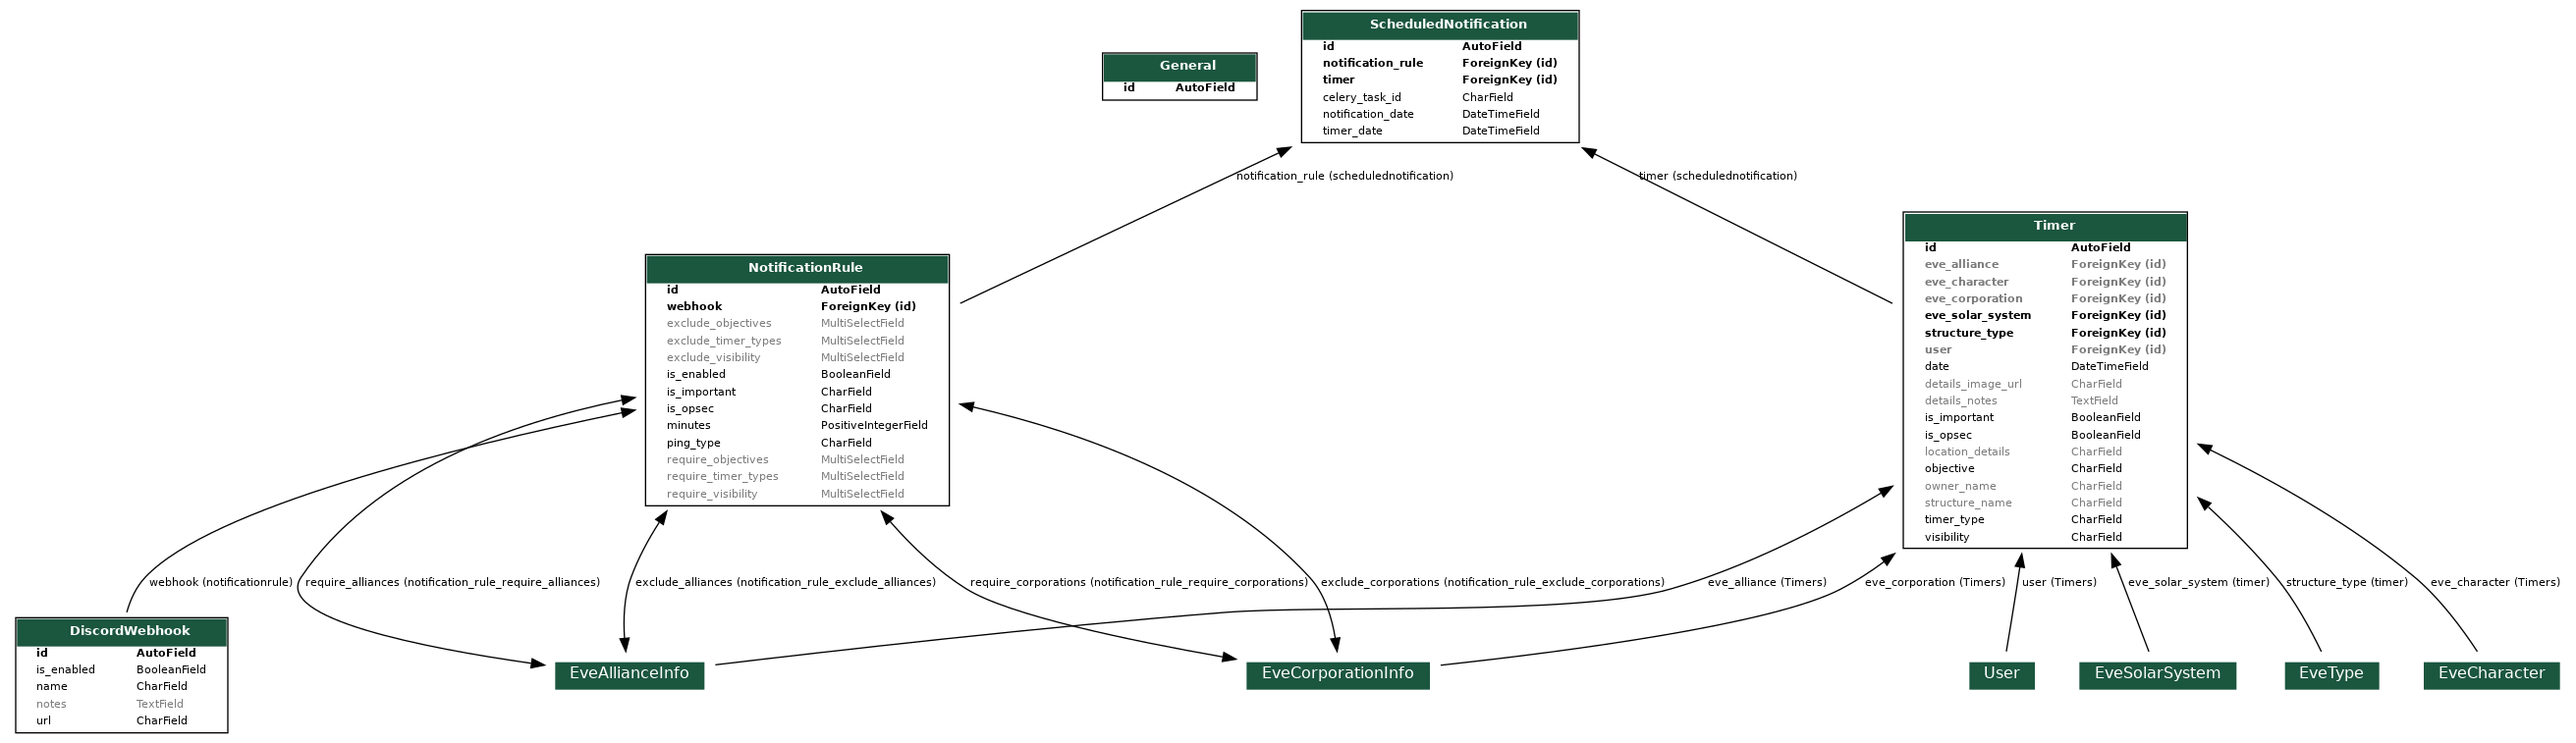
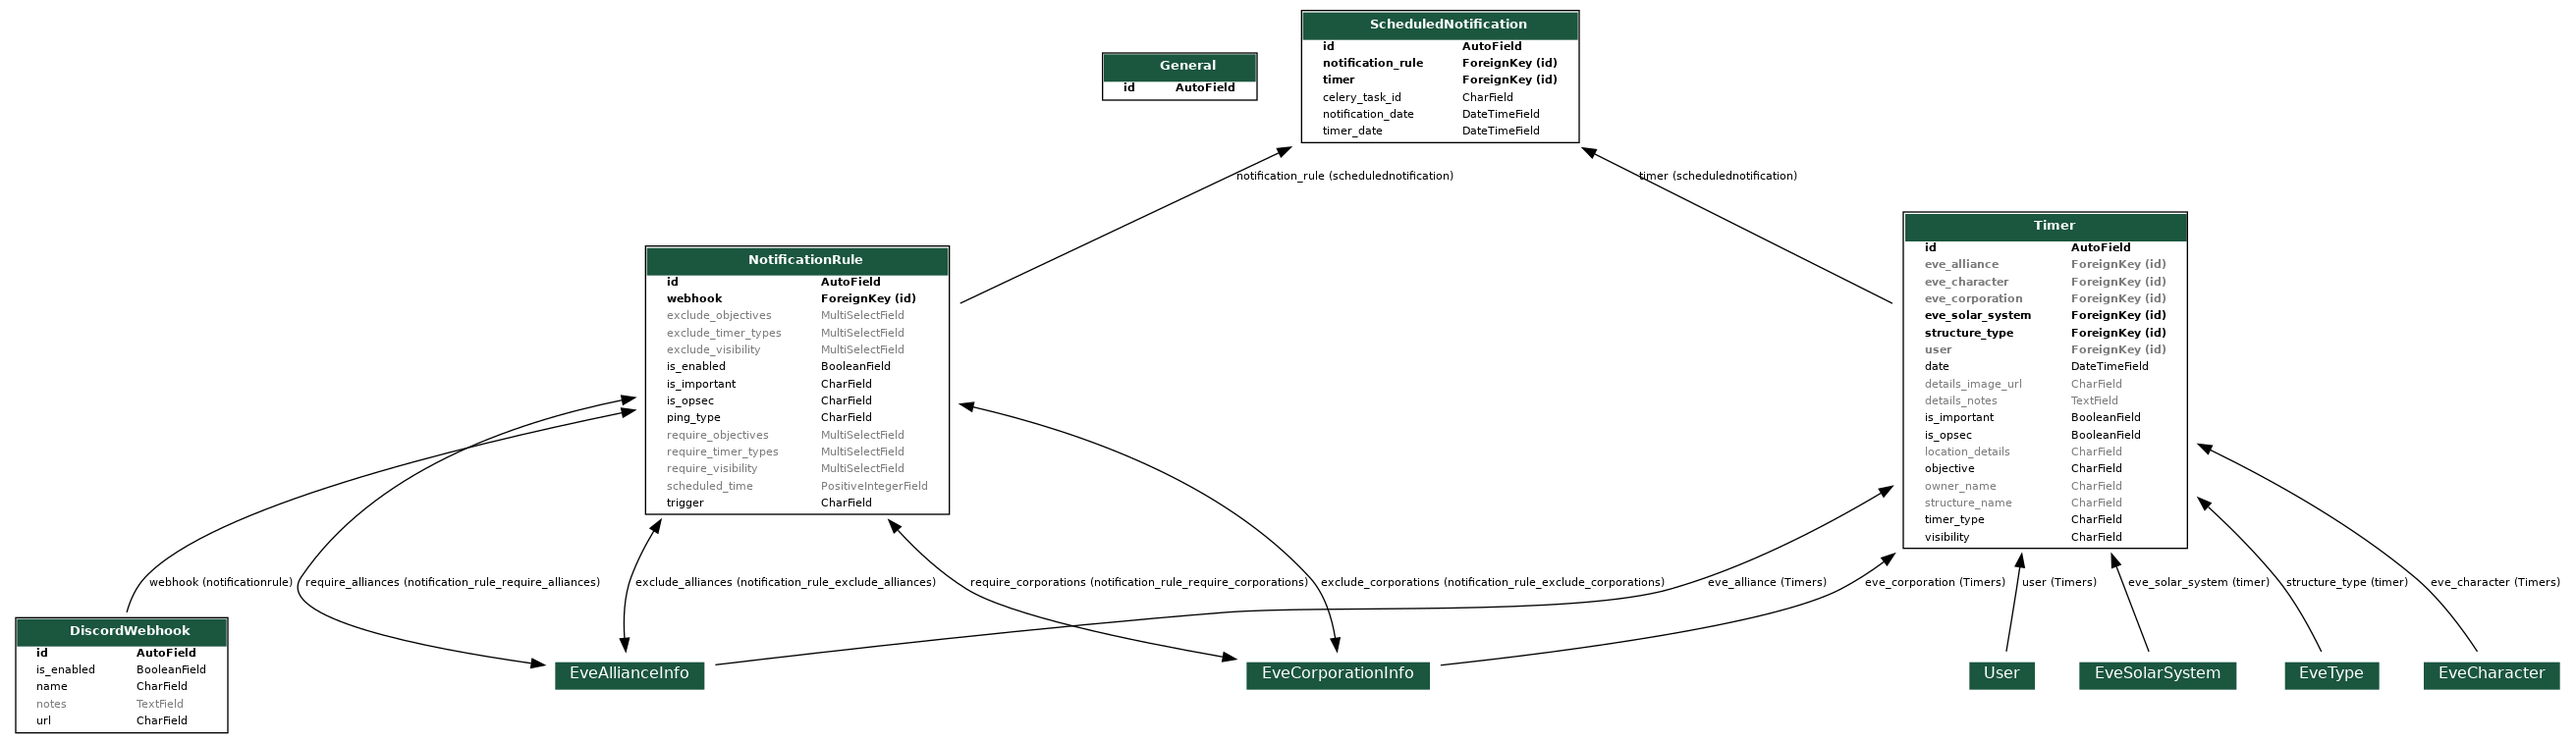
Improve UI for notificaton rules

Changed region(s): [[0.247, 0.3038, 0.3706, 0.6988]]

diff --git a/structuretimers/tests/test_tasks.py b/structuretimers/tests/test_tasks.py
@@ -40,8 +40,8 @@ class TestCaseBase(LoadTestDataMixin, TestCase):
         )
 
 
-@patch(MODULE_PATH + ".DiscordWebhook.send_queued_messages")
-@patch(MODULE_PATH + ".logger")
+@patch(MODULE_PATH + ".DiscordWebhook.send_queued_messages", spec=True)
+@patch(MODULE_PATH + ".logger", spec=True)
 class TestSendMessagesForWebhook(TestCaseBase):
     def test_normal(self, mock_logger, mock_send_queued_messages):
         send_messages_for_webhook(self.webhook.pk)
@@ -65,8 +65,8 @@ class TestSendMessagesForWebhook(TestCaseBase):
         self.assertEqual(mock_logger.error.call_count, 0)
 
 
-@patch(MODULE_PATH + ".notify_about_new_timer")
-@patch(MODULE_PATH + ".send_scheduled_notification")
+@patch(MODULE_PATH + ".notify_about_new_timer", spec=True)
+@patch(MODULE_PATH + ".send_scheduled_notification", spec=True)
 class TestScheduleNotificationForTimer(TestCaseBase):
     def test_normal(self, mock_send_notification, mock_send_notification_for_timer):
         """
@@ -149,7 +149,7 @@ class TestScheduleNotificationForTimer(TestCaseBase):
         self.assertFalse(mock_send_notification_for_timer.apply_async.called)
 
 
-@patch(MODULE_PATH + ".send_scheduled_notification")
+@patch(MODULE_PATH + ".send_scheduled_notification", spec=True)
 class TestScheduleNotificationForRule(TestCaseBase):
     def test_normal(self, mock_send_notification):
         """
@@ -197,7 +197,7 @@ class TestScheduleNotificationForRule(TestCaseBase):
 
 
 @patch("structuretimers.models.STRUCTURETIMERS_NOTIFICATIONS_ENABLED", False)
-@patch(MODULE_PATH + ".send_messages_for_webhook")
+@patch(MODULE_PATH + ".send_messages_for_webhook", spec=True)
 class TestSendScheduledNotification(TestCaseBase):
     def test_normal(self, mock_send_messages_for_webhook):
         """
@@ -267,7 +267,7 @@ class TestSendScheduledNotification(TestCaseBase):
         self.assertFalse(mock_send_messages_for_webhook.apply_async.called)
 
 
-@patch(MODULE_PATH + ".send_messages_for_webhook")
+@patch(MODULE_PATH + ".send_messages_for_webhook", spec=True)
 class TestSendNotificationForTimer(TestCaseBase):
     def setUp(self) -> None:
         super().setUp()

diff --git a/structuretimers/tasks.py b/structuretimers/tasks.py
@@ -21,6 +21,7 @@ from .utils import LoggerAddTag
 
 
 logger = LoggerAddTag(get_extension_logger(__name__), __title__)
+TASK_PRIO_HIGH = 4
 
 
 @shared_task(base=QueueOnce, acks_late=True)
@@ -92,7 +93,9 @@ def send_scheduled_notification(self, scheduled_notification_pk: int) -> None:
                     webhook=webhook,
                     content=notification_rule.prepend_ping_text(content),
                 )
-                send_messages_for_webhook.apply_async(args=[webhook.pk], priority=3)
+                send_messages_for_webhook.apply_async(
+                    args=[webhook.pk], priority=TASK_PRIO_HIGH
+                )
 
 
 @shared_task
@@ -117,7 +120,7 @@ def notify_about_new_timer(timer_pk: int, notification_rule_pk: int) -> None:
                 content=notification_rule.prepend_ping_text(content),
             )
             send_messages_for_webhook.apply_async(
-                args=[notification_rule.webhook.pk], priority=3
+                args=[notification_rule.webhook.pk], priority=TASK_PRIO_HIGH
             )
 
 
@@ -138,7 +141,7 @@ def _schedule_notification_for_timer(
     result = send_scheduled_notification.apply_async(
         kwargs={"scheduled_notification_pk": scheduled_notification.pk},
         eta=timer.date - timedelta(minutes=notification_rule.scheduled_time),
-        priority=3,
+        priority=TASK_PRIO_HIGH,
     )
     scheduled_notification.celery_task_id = result.task_id
     scheduled_notification.save()
@@ -184,7 +187,7 @@ def schedule_notifications_for_timer(timer_pk: int, is_new: bool = False) -> Non
                                 "timer_pk": timer.pk,
                                 "notification_rule_pk": rule.pk,
                             },
-                            priority=3,
+                            priority=TASK_PRIO_HIGH,
                         )
 
             # trigger: timer elapses soon

diff --git a/structuretimers/admin.py b/structuretimers/admin.py
@@ -134,7 +134,7 @@ class NotificationRuleAdmin(admin.ModelAdmin):
         "_time",
         "webhook",
         "ping_type",
-        "_clauses",
+        "_timer_clauses",
     )
     list_filter = ("is_enabled", "trigger")
     ordering = ("id",)
@@ -147,7 +147,7 @@ class NotificationRuleAdmin(admin.ModelAdmin):
 
     _time.admin_order_field = "scheduled time"
 
-    def _clauses(self, obj) -> list:
+    def _timer_clauses(self, obj) -> list:
         clauses = list()
         for field, func, choices in [
             ("require_timer_types", self._add_to_clauses_1, Timer.TYPE_CHOICES),
@@ -212,6 +212,41 @@ class NotificationRuleAdmin(admin.ModelAdmin):
         "exclude_alliances",
         "require_corporations",
         "exclude_corporations",
+    )
+
+    fieldsets = (
+        (
+            None,
+            {
+                "fields": (
+                    "trigger",
+                    "scheduled_time",
+                    "webhook",
+                    "ping_type",
+                    "is_enabled",
+                )
+            },
+        ),
+        (
+            "Timer clauses",
+            {
+                "classes": ("collapse",),
+                "fields": (
+                    "require_timer_types",
+                    "exclude_timer_types",
+                    "require_objectives",
+                    "exclude_objectives",
+                    "require_corporations",
+                    "exclude_corporations",
+                    "require_alliances",
+                    "exclude_alliances",
+                    "require_visibility",
+                    "exclude_visibility",
+                    "is_important",
+                    "is_opsec",
+                ),
+            },
+        ),
     )
 
     def formfield_for_manytomany(self, db_field, request, **kwargs):

diff --git a/structuretimers/tests/test_utils.py b/structuretimers/tests/test_utils.py
@@ -5,6 +5,7 @@ from unittest.mock import Mock, patch
 import requests
 
 from django.contrib.auth.models import User
+from django.http import HttpRequest
 from django.test import TestCase
 from django.utils import translation
 from django.utils.html import mark_safe
@@ -37,9 +38,9 @@ logger = set_test_logger(MODULE_PATH, __file__)
 
 
 class TestMessagePlus(TestCase):
-    @patch(MODULE_PATH + ".messages")
+    @patch(MODULE_PATH + ".messages", spec=True)
     def test_valid_call(self, mock_messages):
-        messages_plus.debug(Mock(), "Test Message")
+        messages_plus.debug(Mock(spec=HttpRequest), "Test Message")
         self.assertTrue(mock_messages.debug.called)
         call_args_list = mock_messages.debug.call_args_list
         args, kwargs = call_args_list[0]
@@ -57,19 +58,19 @@ class TestMessagePlus(TestCase):
     @patch(MODULE_PATH + ".messages")
     def test_all_levels(self, mock_messages):
         text = "Test Message"
-        messages_plus.error(Mock(), text)
+        messages_plus.error(Mock(spec=HttpRequest), text)
         self.assertTrue(mock_messages.error.called)
 
-        messages_plus.debug(Mock(), text)
+        messages_plus.debug(Mock(spec=HttpRequest), text)
         self.assertTrue(mock_messages.debug.called)
 
-        messages_plus.info(Mock(), text)
+        messages_plus.info(Mock(spec=HttpRequest), text)
         self.assertTrue(mock_messages.info.called)
 
-        messages_plus.success(Mock(), text)
+        messages_plus.success(Mock(spec=HttpRequest), text)
         self.assertTrue(mock_messages.success.called)
 
-        messages_plus.warning(Mock(), text)
+        messages_plus.warning(Mock(spec=HttpRequest), text)
         self.assertTrue(mock_messages.warning.called)
 
 

diff --git a/structuretimers/tests/test_models.py b/structuretimers/tests/test_models.py
@@ -292,7 +292,7 @@ class TestTimerManger(LoadTestDataMixin, TestCase):
         self.assertFalse(Timer.objects.filter(pk=timer_2.pk).exists())
 
 
-@patch(MODULE_PATH + ".DiscordWebhook.send_message")
+@patch(MODULE_PATH + ".DiscordWebhook.send_message", spec=True)
 class TestTimerSendNotification(LoadTestDataMixin, TestCase):
     @classmethod
     def setUpClass(cls) -> None:
@@ -482,7 +482,7 @@ class TestDiscordWebhook(LoadTestDataMixin, TestCase):
 
 
 @patch(MODULE_PATH + ".sleep", new=lambda x: x)
-@patch(MODULE_PATH + ".DiscordWebhook.send_message_to_webhook")
+@patch(MODULE_PATH + ".DiscordWebhook.send_message_to_webhook", spec=True)
 class TestDiscordWebhookSendQueuedMessages(TestCase):
     def setUp(self) -> None:
         self.webhook = DiscordWebhook.objects.create(
@@ -548,8 +548,8 @@ class TestDiscordWebhookSendQueuedMessages(TestCase):
         self.assertEqual(self.webhook.queue_size(), 1)
 
 
-@patch(MODULE_PATH + ".dhooks_lite.Webhook.execute")
-@patch(MODULE_PATH + ".logger")
+@patch(MODULE_PATH + ".dhooks_lite.Webhook.execute", spec=True)
+@patch(MODULE_PATH + ".logger", spec=True)
 class TestDiscordWebhookSendMessageToWebhook(NoSocketsTestCase):
     def setUp(self) -> None:
         self.webhook = DiscordWebhook.objects.create(

diff --git a/structuretimers/models.py b/structuretimers/models.py
@@ -755,8 +755,8 @@ class NotificationRule(models.Model):
             and self.is_enabled
             and self.trigger == self.TRIGGER_SCHEDULED_TIME_REACHED
         ):
-            self._import_schedule_notifications_for_rule().delay(
-                notification_rule_pk=self.pk
+            self._import_schedule_notifications_for_rule().apply_async(
+                kwargs={"notification_rule_pk": self.pk}, priority=4
             )
 
         if self.trigger == self.TRIGGER_NEW_TIMER_CREATED:
@@ -832,12 +832,6 @@ class NotificationRule(models.Model):
             NotificationRule.PING_TYPE_EVERYONE: "@everyone",
         }
         return my_map[ping_type] if ping_type in my_map else ""
-
-    @staticmethod
-    def _import_send_messages_for_webhook() -> object:
-        from .tasks import send_messages_for_webhook
-
-        return send_messages_for_webhook
 
     @classmethod
     def get_timer_type_display(cls, value: Any) -> str:

diff --git a/structuretimers/tests/test_integration.py b/structuretimers/tests/test_integration.py
@@ -324,8 +324,8 @@ class TestSendNotifications(LoadTestDataMixin, TestCase):
 
 @override_settings(CELERY_ALWAYS_EAGER=True)
 @patch("structuretimers.models.sleep", new=lambda x: x)
-@patch("structuretimers.tasks.notify")
-@patch("structuretimers.models.dhooks_lite.Webhook.execute")
+@patch("structuretimers.tasks.notify", spec=True)
+@patch("structuretimers.models.dhooks_lite.Webhook.execute", spec=True)
 class TestTestMessageToWebhook(LoadTestDataMixin, TestCase):
     def setUp(self) -> None:
         self.webhook = DiscordWebhook.objects.create(

diff --git a/structuretimers/__init__.py b/structuretimers/__init__.py
@@ -1,4 +1,4 @@
 default_app_config = "structuretimers.apps.StructureTimersConfig"
 
-__version__ = "0.2.0b1"
+__version__ = "1.0.0b1"
 __title__ = "Structure Timers"

diff --git a/README.md b/README.md
@@ -13,6 +13,7 @@ An app for keeping track of Eve Online structure timers with Alliance Auth and D
 - [Notification Rules](#notification-rules)
 - [Permissions](#permissions)
 - [Management commands](#management-commands)
+- [Change Log](CHANGELOG.md)
 
 ## Overview
 
@@ -146,16 +147,27 @@ Name | Description | Default
 
 ## Notification Rules
 
-In *Structure Timers II* you can get notifications on Discord for timers by setting up notification rules. Notification rules allow you to define in detail what event and which kind of timers will trigger notification. And of course to which channel to sent them. For example you can define that important timers should always ping everybody or that corp restricted timers should only be sent to a dedicated channel.
+In *Structure Timers II* you can receive automatic notifications on Discord for timers by setting up notification rules. Notification rules allow you to define in detail what event and which kind of timers should trigger notifications.
 
-In general all rules are independent from each other and all enabled rules will be executed for every timer one by one.
+Note that in general all rules are independent from each other and all enabled rules will be executed for every timer one by one.
 
 ### Example setup
 
 Here is an example for a basic setup of rules:
 
-1. Notify about new every newly created timer without ping (e.g. into a scouts channel)
-2. Notify 45 minutes before any timer elapses with ping (e.g. into the FC channel)
+#### Example 1: Notify about new every newly created timer without ping (e.g. into a scouts channel)
+
+- Trigger: New timer created
+- Scheduled Time: -
+- Webhook: YOUR-WEBHOOK
+- Ping Type: (no ping)
+
+#### Example 2: Notify 45 minutes before any timer elapses with ping (e.g. into the FC channel)
+
+- Trigger: Scheduled timer reached
+- Scheduled Time: T - 45 minutes
+- Webhook: YOUR-WEBHOOK
+- Ping Type: @here
 
 ### Key concepts
 
@@ -176,7 +188,7 @@ Each rule has exactly one webhook. You can of course define multiple rules for t
 
 Almost every property of a timer can be used to define rules. For example you can define to get notifications only for timers which hostile objective or only for final timers.
 
-Note that if a clause is not set, it will always match any.
+Note that setting a timer clause is optional and clauses that are not set, it will always match any.
 
 ## Permissions
 

diff --git a/CHANGELOG.md b/CHANGELOG.md
@@ -13,6 +13,6 @@ and this project adheres to [Semantic Versioning](http://semver.org/).
 
 ### Fixed
 
-## 0.2.0 - tbd
+## 1.0.0 - tbd
 
 Initial release
